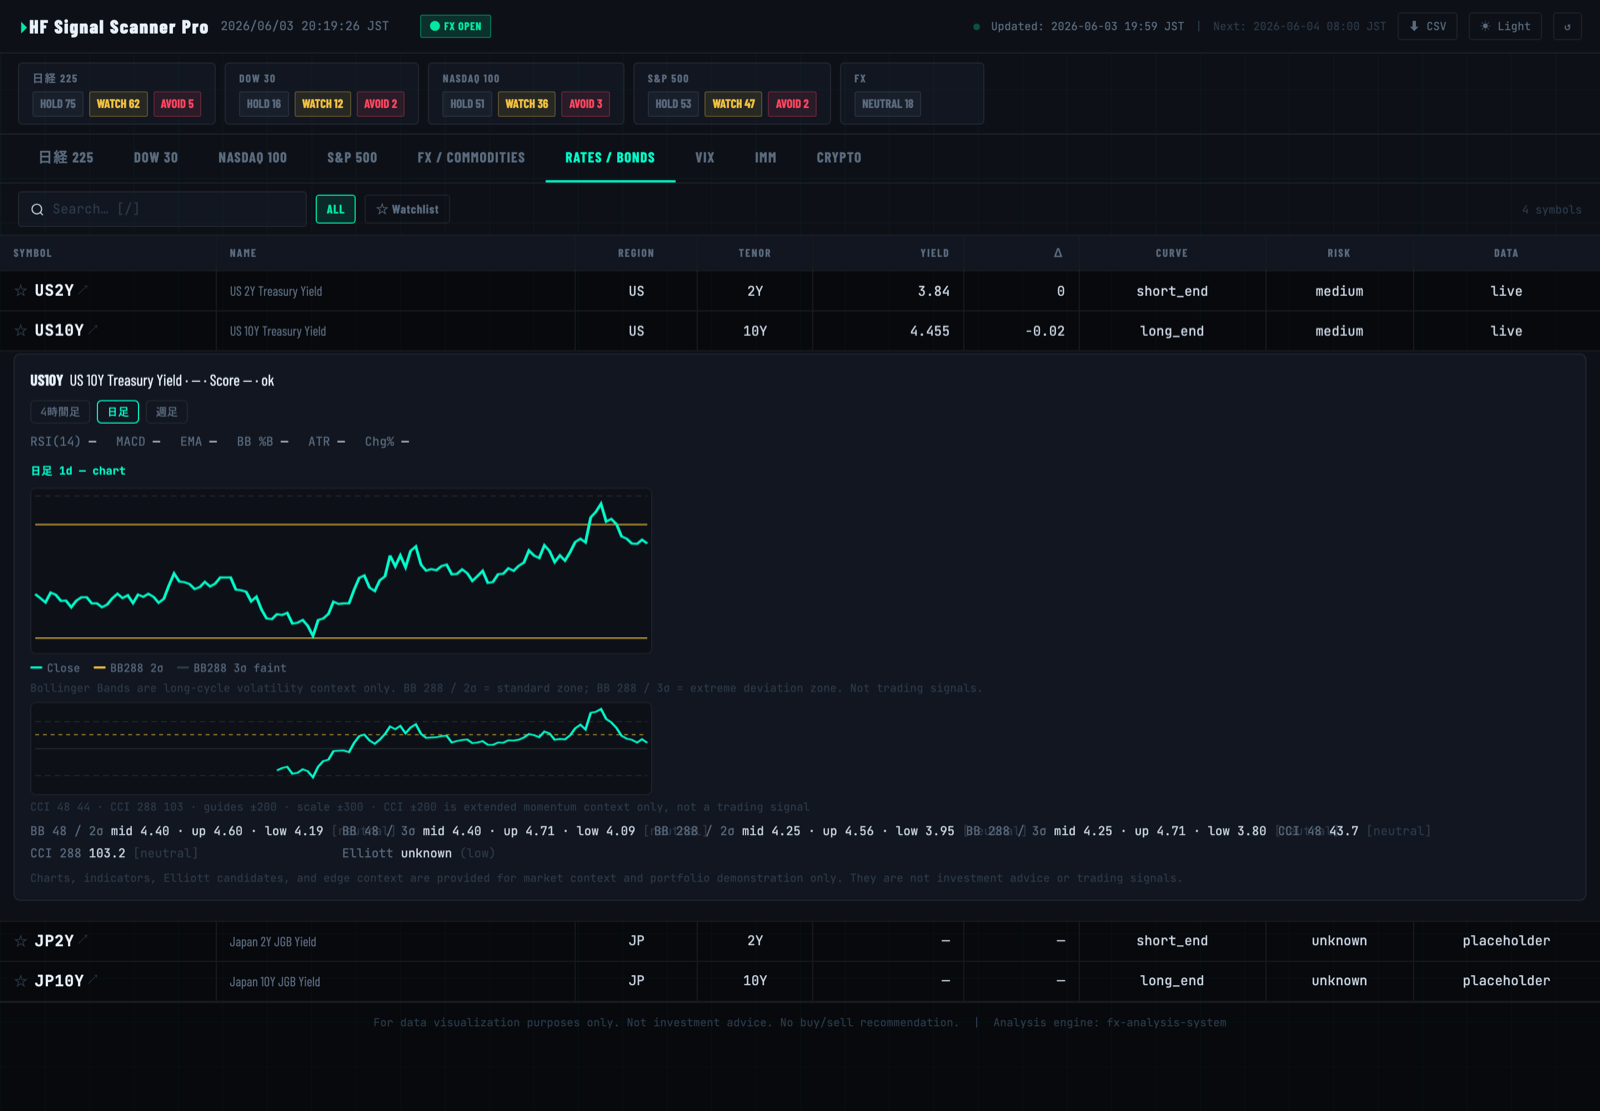
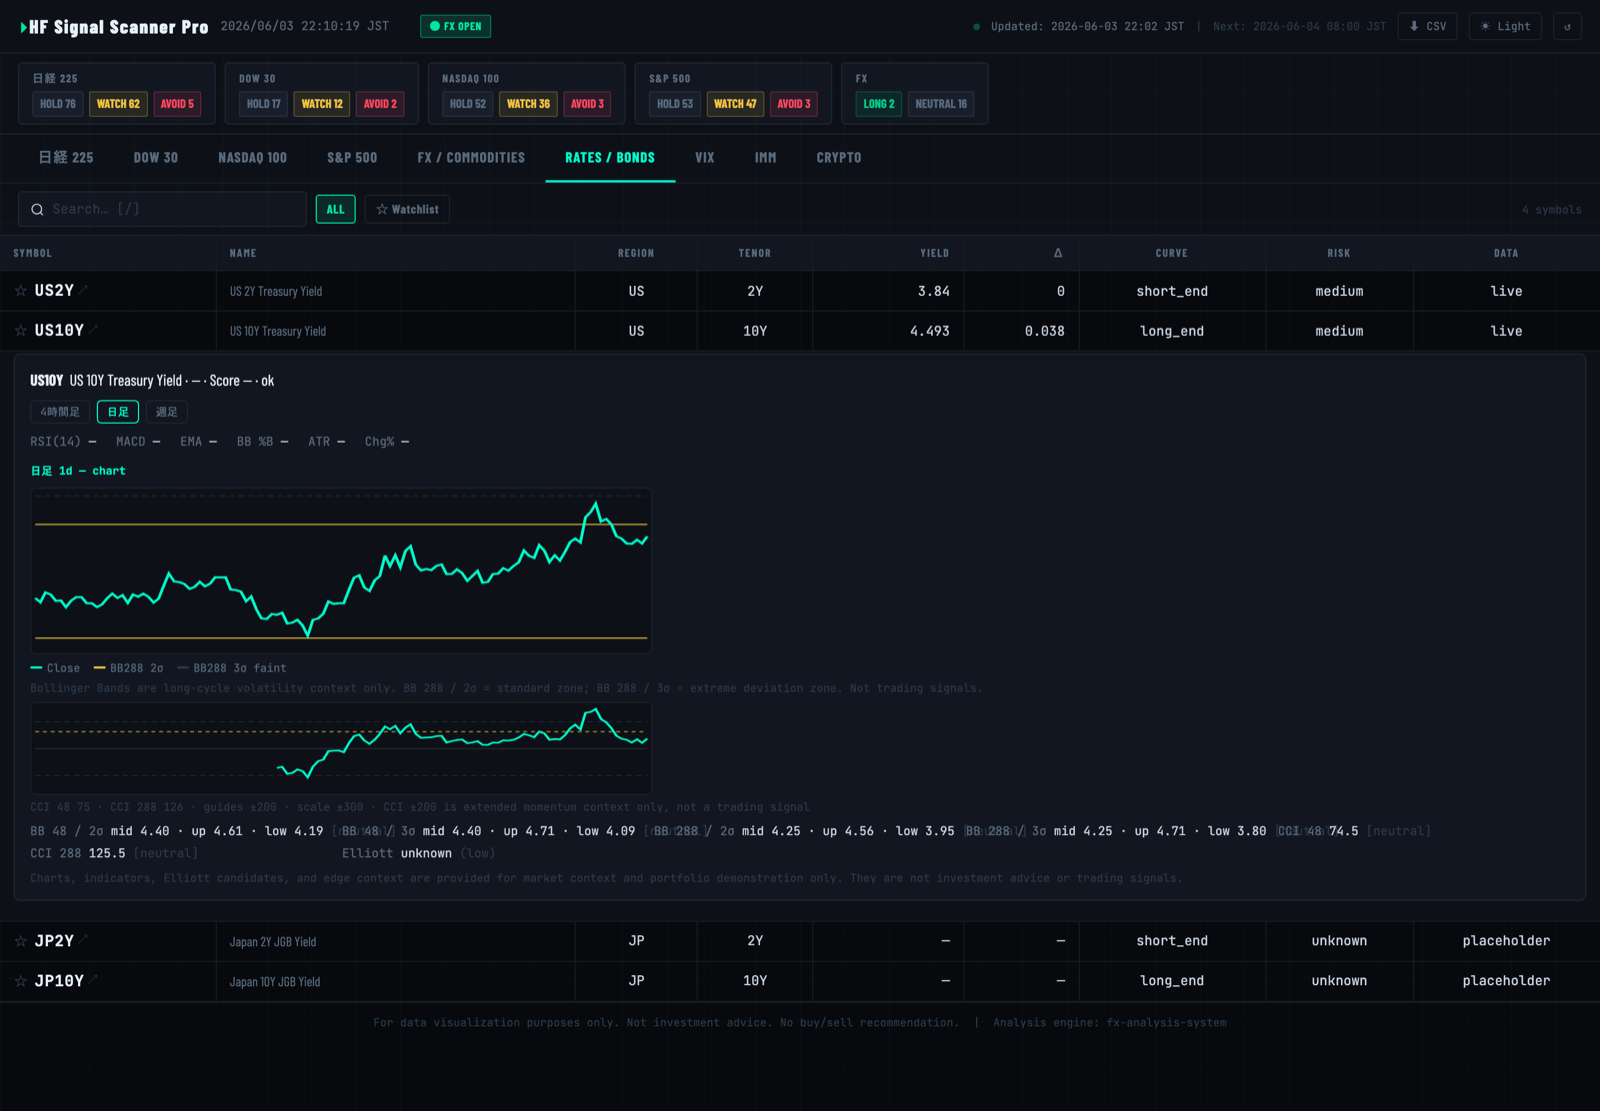
Update screenshots for v3 dashboard
Refresh the README screenshots with authentic captures of the live v3 site
(headless Chrome / CDP, not mocks): FX/USDJPY detail now shows the
multi-timeframe (4h/1d/1w) tabs + 1d chart (BB288 2σ/3σ, CCI ±200) + the
populated USDJPY Edge Context (moderate_contextual_edge, supporting vs
conflicting factors); the Rates view shows live US2Y/US10Y yields + US10Y
yield chart alongside placeholder Japan rows; and a new equity capture shows an
AAPL 1d chart in the S&P 500 tab. Images in docs/assets/ (1600px); README
Screenshots section adds the equity view. Context only, not trading signals.

diff --git a/README.md b/README.md
@@ -141,19 +141,29 @@ or buy/sell recommendations. IMM `long`/`short` refer to CFTC positioning catego
 
 Live: **https://hf-signal-dashboard.pages.dev/** — the captures below are of the live site.
 
-### FX / Commodities detail panel
+### FX / Commodities detail with Edge Context
 
-A selected FX symbol (USDJPY=X) with its 1d close line, Bollinger Bands 288 (2σ / 3σ) overlay,
-a CCI ±200 lower panel, Elliott/edge context, and the market-context disclaimer.
+USDJPY=X with switchable 4h / 1d / 1w timeframe tabs, a 1d close line, Bollinger Bands 288
+(2σ / 3σ) overlay, a CCI ±200 lower panel, an Elliott placeholder, and the USDJPY **Edge Context**
+(overall / confidence + technical / macro / cross-asset / risk-adjusted dimensions with supporting
+vs conflicting factors) — analytical context only.
 
-![HF Signal Dashboard — FX detail panel with Bollinger Bands and CCI](docs/assets/hf-signal-dashboard-detail.png)
+![HF Signal Dashboard — FX detail with multi-timeframe tabs, BB288, CCI ±200, and Edge Context](docs/assets/hf-signal-dashboard-detail.png)
 
-### Rates / Bonds view
+### Rates / Bonds live yield view
 
-The Rates / Bonds tab shows live US2Y / US10Y yields (`data_status: live`) alongside placeholder
-Japan rows (`data_status: placeholder`), with a yield chart for the available US rates.
+The Rates / Bonds tab separates live US2Y / US10Y yields (`data_status: live`) from placeholder
+Japan rows (`data_status: placeholder`), with a yield chart (BB288 + CCI ±200) for the available
+US rates. US and Japan curves are assessed separately.
 
-![HF Signal Dashboard — Rates / Bonds tab with live US yields and a US10Y yield chart](docs/assets/hf-signal-dashboard-rates.png)
+![HF Signal Dashboard — Rates / Bonds with live US yields and a US10Y yield chart](docs/assets/hf-signal-dashboard-rates.png)
+
+### Equity chart view
+
+Index proxies (^N225/^DJI/^NDX/^GSPC) and a selected constituent allowlist (e.g. AAPL, shown)
+include a 1d chart with BB288 (2σ / 3σ) and CCI ±200; non-allowlist symbols fall back gracefully.
+
+![HF Signal Dashboard — S&P 500 equity (AAPL) 1d chart with BB288 and CCI ±200](docs/assets/hf-signal-dashboard-v3-equity.png)
 
 ---
 